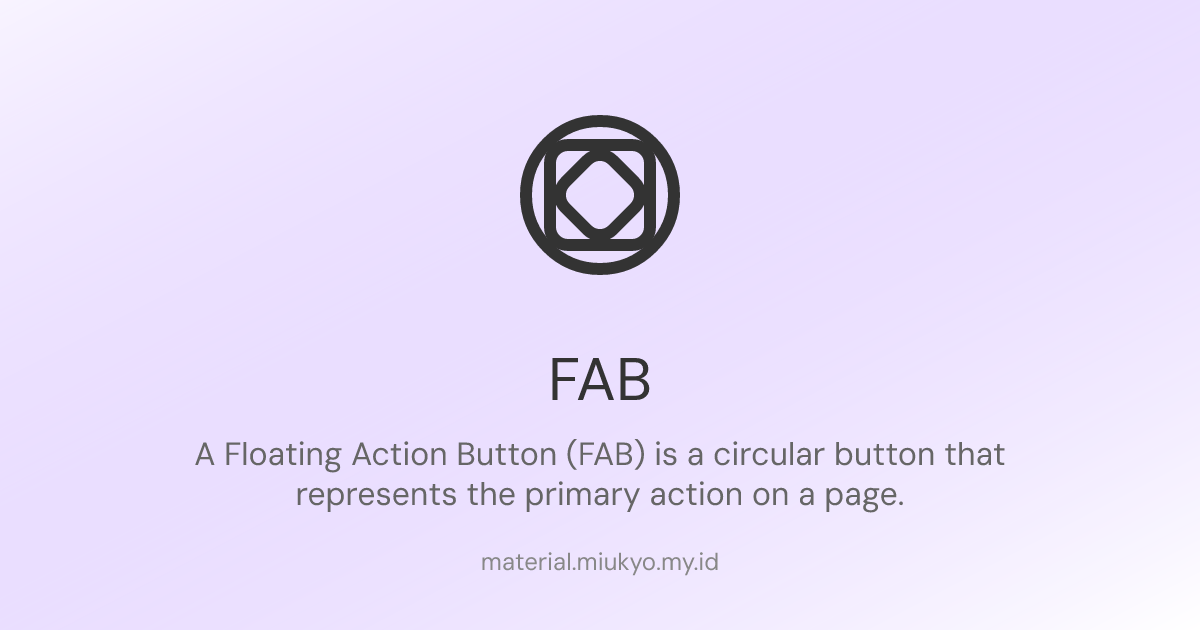
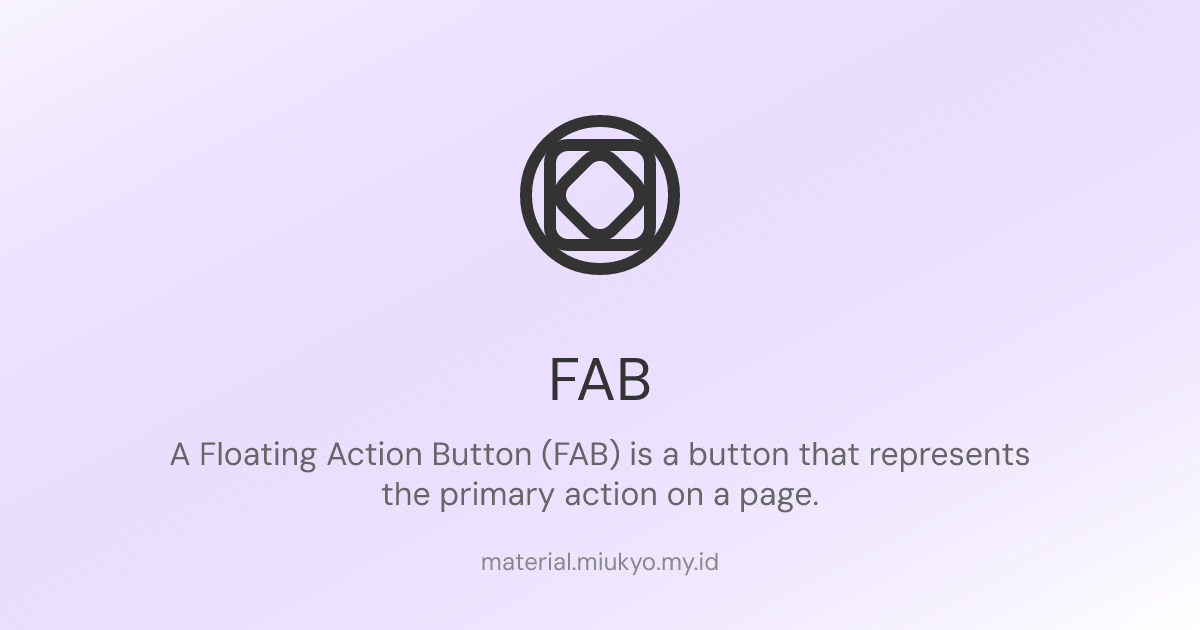
feat: added components image and components list

Changed region(s): [[0.1233, 0.6937, 0.8633, 0.8143]]

diff --git a/apps/www/components/blocks/docs-header.tsx b/apps/www/components/blocks/docs-header.tsx
@@ -12,7 +12,9 @@ const DocsHeader = (props: { title: string; description: string; img?: string })
   }, []);
 
   const headerContent = (
-    <div id="header" className="order-1 flex flex-col xl:flex-row gap-2 not-prose animation-fade-in">
+    <div
+      id="header"
+      className="order-1 flex flex-col xl:flex-row gap-2 not-prose animation-fade-in">
       <div className="grow h-85 xl:h-120 bg-surface-container rounded-xl overflow-hidden">
         <div className="flex flex-col justify-center h-full px-15 lg:px-[10%] text-on-secondary-container">
           <h1 className="m3-font-display-large font-semibold text-7xl lg:text-8xl text-wrap">
@@ -27,7 +29,16 @@ const DocsHeader = (props: { title: string; description: string; img?: string })
           height={480}
           src={props.img ?? "/images/Button.png"}
           alt={props.title + " Image"}
-          className="relative w-full h-full object-contain inset-0 z-10"
+          quality={100}
+          className="relative w-full h-full object-contain inset-0 z-20"
+        />
+        <SVGNoise />
+        <Image
+          width={800}
+          height={450}
+          src="/images/HeaderBackground.jpg"
+          alt="Background Image"
+          className="absolute inset-0 w-full h-full object-cover blur-lg scale-110"
         />
       </div>
     </div>
@@ -40,5 +51,54 @@ const DocsHeader = (props: { title: string; description: string; img?: string })
     </>
   );
 };
+
+const SVGNoise = () => (
+  <svg
+    xmlns="http://www.w3.org/2000/svg"
+    version="1.1"
+    viewBox="0 0 700 700"
+    width="700"
+    height="700"
+    className="absolute inset-0 w-full h-full z-10 opacity-30">
+    <defs>
+      <filter
+        id="nnnoise-filter"
+        x="-20%"
+        y="-20%"
+        width="140%"
+        height="140%"
+        filterUnits="objectBoundingBox"
+        primitiveUnits="userSpaceOnUse"
+        color-interpolation-filters="linearRGB">
+        <feTurbulence
+          type="fractalNoise"
+          baseFrequency="0.075"
+          numOctaves="4"
+          seed="15"
+          stitchTiles="stitch"
+          x="0%"
+          y="0%"
+          width="100%"
+          height="100%"
+          result="turbulence"></feTurbulence>
+        <feSpecularLighting
+          surfaceScale="15"
+          specularConstant="0.75"
+          specularExponent="20"
+          lighting-color="#ffffff"
+          x="0%"
+          y="0%"
+          width="100%"
+          height="100%"
+          in="turbulence"
+          result="specularLighting">
+          <feDistantLight azimuth="3" elevation="100"></feDistantLight>
+        </feSpecularLighting>
+      </filter>
+    </defs>
+    <rect width="700" height="700" fill="transparent"></rect>
+    <rect width="700" height="700" fill="#ffffff" filter="url(#nnnoise-filter)"></rect>
+  </svg>
+);
 
 export default DocsHeader;

diff --git a/apps/www/components/blocks/component-grid.tsx b/apps/www/components/blocks/component-grid.tsx
@@ -1,0 +1,84 @@
+import React from "react";
+import Image from "next/image";
+import Link from "next/link";
+
+interface ComponentItem {
+  name: string;
+  image: string;
+  href: string;
+  badge?: string;
+  status?: "new" | "updated" | "no-guidelines";
+}
+
+interface ComponentGridProps {
+  components: ComponentItem[];
+}
+
+const ComponentGrid: React.FC<ComponentGridProps> = ({ components }) => {
+  const getStatusColor = (status?: string) => {
+    switch (status) {
+      case "new":
+        return "bg-primary text-on-primary";
+      case "updated":
+        return "bg-tertiary text-on-tertiary";
+      case "no-guidelines":
+        return "bg-error text-white";
+      default:
+        return "bg-primary text-on-primary";
+    }
+  };
+
+  const getStatusText = (status?: string) => {
+    switch (status) {
+      case "new":
+        return "New";
+      case "updated":
+        return "Updated";
+      case "no-guidelines":
+        return "No guidelines";
+      default:
+        return "";
+    }
+  };
+
+  return (
+    <div className="not-prose my-8">
+      <div className="grid grid-cols-1 md:grid-cols-2 lg:grid-cols-3 gap-2 rounded-2xl overflow-hidden">
+        {components.map((component, index) => (
+          <Link key={index} href={component.href} className="block group">
+            <div className="bg-surface-container rounded-md overflow-hidden hover:bg-surface-container-high transition-colors duration-200">
+              <div className="aspect-[4/3] flex items-center justify-center relative">
+                <Image
+                  src={component.image}
+                  alt={component.name}
+                  width={252}
+                  height={189}
+                  quality={100}
+                  className="w-full z-10 h-full object-cover group-hover:scale-120 transition-transform duration-200"
+                />
+                <Image
+                  src="/images/HeaderBackground.jpg"
+                  alt="Background"
+                  width={252}
+                  height={189}
+                  className="blur-lg absolute inset-0 w-full h-full object-cover scale-120"
+                />
+              </div>
+              <div className="p-4 bg-surface-container-high z-20 relative flex justify-between items-center">
+                <h3 className="font-semibold text-white mb-1">{component.name}</h3>
+                {component.status && (
+                  <span
+                    className={`px-2 py-1 text-xs font-medium rounded-full ${getStatusColor(component.status)}`}>
+                    {getStatusText(component.status)}
+                  </span>
+                )}
+              </div>
+            </div>
+          </Link>
+        ))}
+      </div>
+    </div>
+  );
+};
+
+export default ComponentGrid;

diff --git a/apps/www/components/layout/docs-layout.tsx b/apps/www/components/layout/docs-layout.tsx
@@ -112,14 +112,14 @@ export default function DocsLayout({ children }: { children: React.ReactNode }) 
               Docs
             </Button>
           </Link>
-          <Link href="/">
+          <Link href="/docs/components/components">
             <Button variant="text" shape="square" className="shadow-none font-dmsans">
               Components
             </Button>
           </Link>
-          <Link href="/">
+          <Link href="/docs/get-started/theming">
             <Button variant="text" shape="square" className="shadow-none font-dmsans">
-              Themes
+              Theming
             </Button>
           </Link>
         </div>
@@ -262,7 +262,7 @@ const Footer = () => (
             </Link>
           </li>
           <li>
-            <Link href="/docs/components">
+            <Link href="/docs/components/components">
               <a className="m3-font-body-medium text-on-surface-variant hover:text-primary text-sm md:text-base">
                 Components
               </a>
@@ -282,13 +282,13 @@ const Footer = () => (
               </a>
             </Link>
           </li>
-          <li>
+          {/* <li>
             <Link href="https://discord.gg/">
               <a className="m3-font-body-medium text-on-surface-variant hover:text-primary text-sm md:text-base">
                 Discord
               </a>
             </Link>
-          </li>
+          </li> */}
         </ul>
       </div>
       <div className="hidden sm:block md:block lg:block">
@@ -303,7 +303,7 @@ const Footer = () => (
               </a>
             </Link>
           </li>
-          <li>
+          {/* <li>
             <Link href="/docs/contributing">
               <a className="m3-font-body-medium text-on-surface-variant hover:text-primary text-sm md:text-base">
                 Contributing
@@ -316,7 +316,7 @@ const Footer = () => (
                 Changelog
               </a>
             </Link>
-          </li>
+          </li> */}
         </ul>
       </div>
       <div className="grid grid-cols-3 gap-4 sm:hidden col-span-1">

diff --git a/apps/www/utils/docs-index.ts b/apps/www/utils/docs-index.ts
@@ -1,5 +1,5 @@
 // This file is auto-generated. Do not edit manually.
-// Generated on 2025-07-05T17:44:27.575Z
+// Generated on 2025-07-09T16:24:57.175Z
 
 /**
  * Documentation index structure with categories and their documents
@@ -39,6 +39,11 @@ const docsIndex: DocIndex = {
   ],
   "components": [
     {
+      title: "All Components",
+      description: "Explore the various components available in React Material.",
+      path: "/docs/components/components",
+    },
+    {
       title: "Button",
       description: "A versatile component for triggering actions or navigating users.",
       path: "/docs/components/buttons/button",
@@ -68,7 +73,7 @@ const docsIndex: DocIndex = {
     },
     {
       title: "FAB",
-      description: "A Floating Action Button (FAB) is a circular button that represents the primary action on a page.",
+      description: "A Floating Action Button (FAB) is a button that represents the primary action on a page.",
       path: "/docs/components/buttons/fab",
       group: "buttons",
       groupTitle: "Buttons",

diff --git a/packages/react-material/components/buttons/button-group.css b/packages/react-material/components/buttons/button-group.css
@@ -34,13 +34,13 @@
       z-index: 1;
     }
 
-    &.round label:first-of-type {
-      border-top-left-radius: var(--m3-util-rounding-extra-large) !important;
-      border-bottom-left-radius: var(--m3-util-rounding-extra-large) !important;
+    &.outlined label:first-of-type {
+      border-top-left-radius: var(--m3-util-rounding-large-increased) !important;
+      border-bottom-left-radius: var(--m3-util-rounding-large-increased) !important;
     }
-    &.round label:last-of-type {
-      border-top-right-radius: var(--m3-util-rounding-extra-large) !important;
-      border-bottom-right-radius: var(--m3-util-rounding-extra-large) !important;
+    &.outlined label:last-of-type {
+      border-top-right-radius: var(--m3-util-rounding-large-increased) !important;
+      border-bottom-right-radius: var(--m3-util-rounding-large-increased) !important;
     }
 
     /* High contrast mode support */

diff --git a/packages/react-material/components/informatives/snackbar.css b/packages/react-material/components/informatives/snackbar.css
@@ -15,7 +15,7 @@
     display: flex;
     align-items: center;
     justify-content: space-between;
-    padding: 0.875rem 1rem;
+    padding: 0.875rem .625rem 0.875rem 1rem;
     height: 3rem;
     bottom: 16px;
     transform-origin: left bottom;
@@ -48,6 +48,7 @@
       }
       & .m3-snackbar-close {
         padding: 0.375rem;
+        scale: 1.25;
         color: rgb(var(--m3-scheme-inverse-on-surface)) !important;
       }
     }

diff --git a/packages/react-material/components/buttons/button-group.tsx b/packages/react-material/components/buttons/button-group.tsx
@@ -21,7 +21,7 @@ type Props = CommonProps & React.HTMLAttributes<HTMLDivElement>;
 
 export const ButtonGroup: React.FC<Props> = (props) => {
   const { shape = "round", variant = "filled", mode, children, ...extraProps } = props;
-  const baseClasses = `m3-button-group-container ${shape}`;
+  const baseClasses = `m3-button-group-container ${shape} ${variant}`;
 
   const groupId = useId();
 

diff --git a/apps/www/next.config.js b/apps/www/next.config.js
@@ -36,6 +36,11 @@ const nextConfig = {
         destination: "/docs/get-started/introduction",
         permanent: true,
       },
+            {
+        source: "/docs/components",
+        destination: "/docs/components/components",
+        permanent: true,
+      },
     ];
   },
 };
